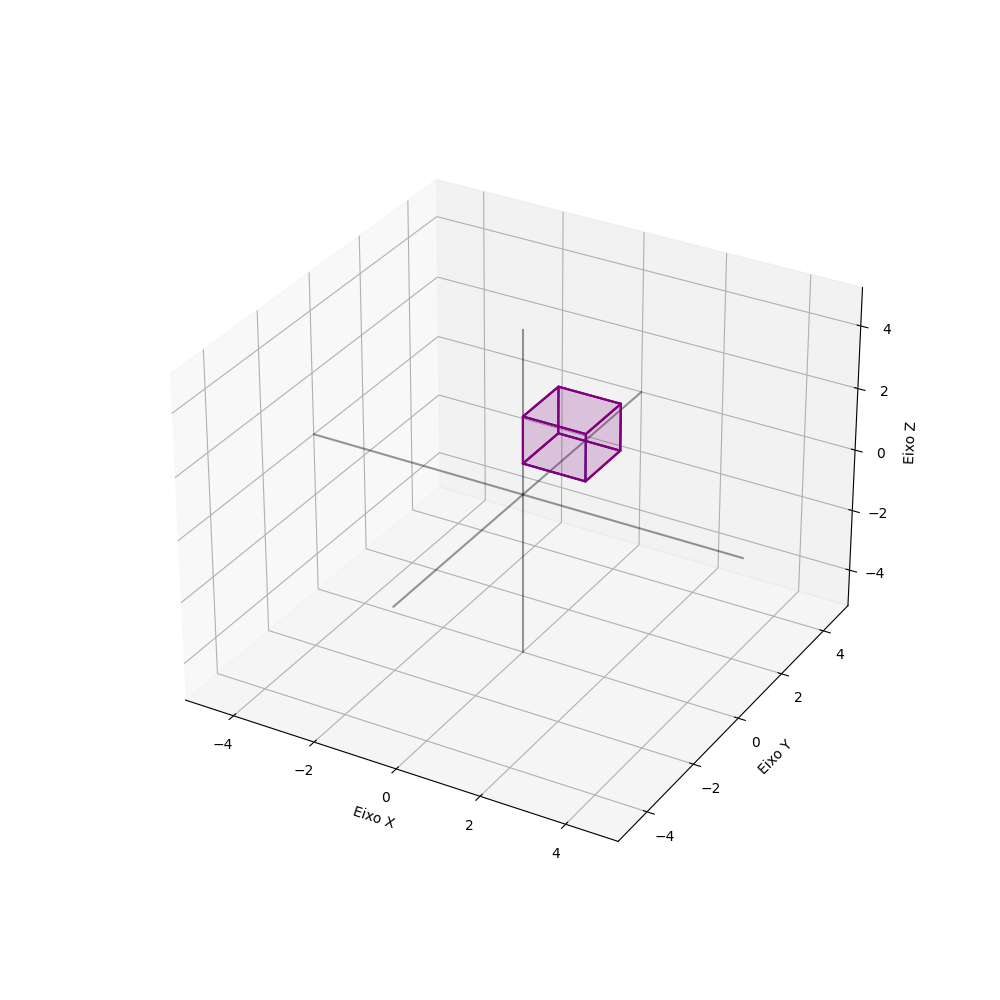
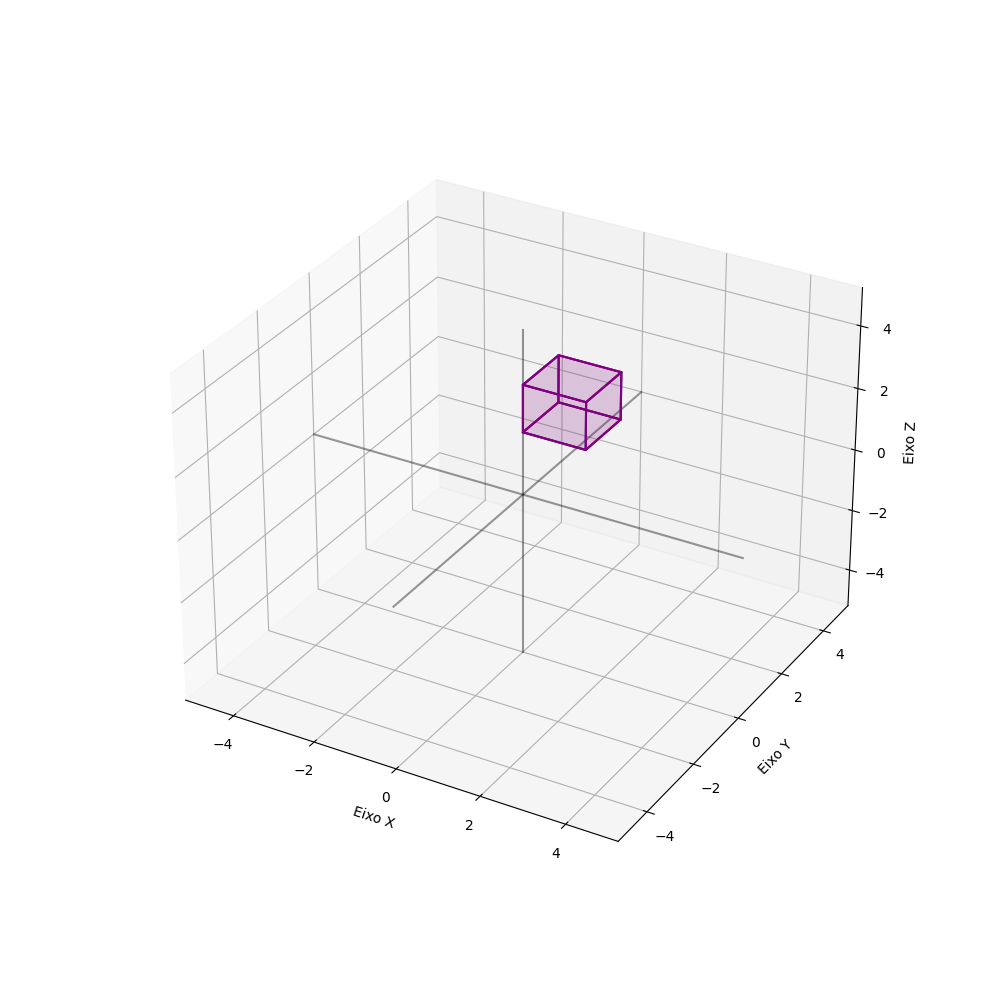
acabando de implementar funcao de translacao

Changed region(s): [[0.496, 0.341, 0.62, 0.496]]

diff --git a/solids.py b/solids.py
@@ -1,3 +1,4 @@
+# coding: utf-8
 from dataclasses import dataclass
 import numpy as np
 from math import sin, cos, radians
@@ -19,31 +20,45 @@ class Objetos():
         self.criaFaces()
 
     def translacao(self, x: float, y: float, z: float):
-        #=======================================================================
-        # origem = []
-        # 
-        # origem.append(x - self.origem[0])
-        # origem.append(y - self.origem[1])
-        # origem.append(z - self.origem[2])  
-        #=======================================================================
-
-        matrizDeTranslacao = np.array(
-            [
-                [1, 0, 0, 0],
-                [0, 1, 0, 0],
-                [0, 0, 1, 0],
-                [origem[0], origem[1], origem[2], 1],
-            ]
-        )
-
-        self.vertices = np.hstack((self.vertices, np.ones((len(self.vertices), 1))))
-        self.vertices = np.dot(self.vertices, matrizDeTranslacao)
-
-        self.vertices = np.delete(self.vertices, 3, axis=1)
+        
+        '''Implementação de uma forma mais simples de transladar '''
+        for i in range(len(self.vertices)):
+            line = self.vertices[i]
+            line[0] += x
+            line[1] += y
+            line[2] += z
+            self.vertices[i] = line
+                  
         self.origem = (x,y,z)
-        
+              
         self.update_solid_features()
-        
+       
+#===============================================================================
+#         '''Implementação q n entendi'''
+#         origem = []
+#          
+#         origem.append(x - self.origem[0])
+#         origem.append(y - self.origem[1])
+#         origem.append(z - self.origem[2])  
+# 
+#         matrizDeTranslacao = np.array(
+#             [
+#                 [1, 0, 0, 0],
+#                 [0, 1, 0, 0],
+#                 [0, 0, 1, 0],
+#                 [origem[0], origem[1], origem[2], 1],
+#             ]
+#         )
+# 
+#         self.vertices = np.hstack((self.vertices, np.ones((len(self.vertices), 1))))
+#         self.vertices = np.dot(self.vertices, matrizDeTranslacao)
+# 
+#         self.vertices = np.delete(self.vertices, 3, axis=1)
+#         self.origem = (x,y,z)
+#         
+#         self.update_solid_features()
+#===============================================================================
+           
     def rotacaoEixoY(self, angulo):
         angulo = radians(angulo)
         rot = np.array(

diff --git a/main.py b/main.py
@@ -1,3 +1,4 @@
+# coding: utf-8
 from solids import *
 from draw import *
 
@@ -7,30 +8,33 @@ def main():
     cubo.criaParalelepipedo(pontoInicial =(0,0,0), x=1.5, y=1.5, z=1.5)
     cubo.titulo = "Cubo"
     cubo.cor = ("purple", 0.1)
+     
     cubo.translacao(0,0,1)
+     
     plot_objeto(objeto=cubo)
 
- #==============================================================================
- #    paralelepipedo = Paralelepipedo()
- #    paralelepipedo.criaParalelepipedo(pontoInicial =(0,0,0), x=1.5, y=5, z=2.5)
- #    paralelepipedo.titulo = "Paralelepipedo"
- #    paralelepipedo.cor = ("blue", 0.1)
- #    plot_objeto(objeto=paralelepipedo)
- # 
- #    piramide = Piramide()
- #    piramide.criaPiramide(2, 2, 3)
- #    piramide.titulo = "Piramide"
- #    piramide.cor = ("gray", 0.1)
- #    piramide.translacao((-1, -1, 0))
- #    piramide.rotacaoEixoY(45)
- #    plot_objeto(objeto=piramide)
- # 
- #    tronco = PiramideTronco()
- #    tronco.criaPiramideTronco(xBase=3, yBase=3, z=2.5, xSuperior=1.3, ySuperior=1.3)
- #    tronco.titulo = "Tronco"
- #    tronco.cor = ("green", 0.1)
- #    plot_objeto(objeto=tronco)
- #==============================================================================
+    paralelepipedo = Paralelepipedo()
+    paralelepipedo.criaParalelepipedo(pontoInicial =(0,0,0), x=1.5, y=5, z=2.5)
+    paralelepipedo.titulo = "Paralelepipedo"
+    paralelepipedo.cor = ("blue", 0.1)
+    plot_objeto(objeto=paralelepipedo)
+  
+    piramide = Piramide()
+    piramide.criaPiramide(2, 2, 3)
+    piramide.titulo = "Piramide"
+    piramide.cor = ("gray", 0.1)
+    
+    piramide.translacao(-1,-1,0)
+    piramide.rotacaoEixoY(45)
+    piramide.translacao(5,0,0)
+    piramide.rotacaoEixoY(45)
+    plot_objeto(objeto=piramide)
+  
+    tronco = PiramideTronco()
+    tronco.criaPiramideTronco(xBase=3, yBase=3, z=2.5, xSuperior=1.3, ySuperior=1.3)
+    tronco.titulo = "Tronco"
+    tronco.cor = ("green", 0.1)
+    plot_objeto(objeto=tronco)
 
 
 if __name__ == "__main__":

diff --git a/draw.py b/draw.py
@@ -1,3 +1,4 @@
+# coding: utf-8
 import numpy as np
 import matplotlib.pyplot as plt
 from mpl_toolkits.mplot3d import Axes3D
